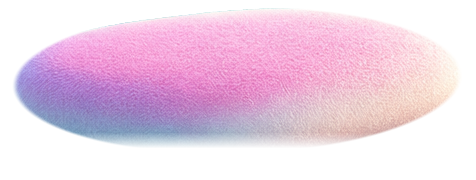
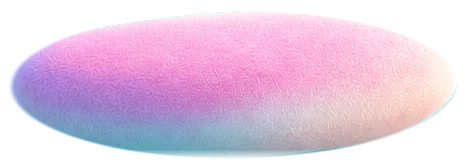
Mud spring: calm lake base, thicker pops, rising steam; game switcher
- Use the new calm lake image from Figma as the base; recut the island and its
  reflection so they drift together, and paint them out of the background.
- Mud bubbles: soft blurred highlight; pops collapse into a thick slow ring with
  a few heavy goo blobs that splash back down.
- Steam wisps rise all the way up to the shake counter.
- Replace the landing page with a redirect to B and add a B/A switcher in both games.
- Minimal scrollbar for the parameter panel.

diff --git a/mud_spring_demo/index.html b/mud_spring_demo/index.html
@@ -25,9 +25,12 @@
 
   /* 第 1 張：湖面（背景原圖 1024×1607 → Figma 位置 x -78，546×857） */
   .bg-lake { left: -78px; top: 0; width: 546px; height: 857px; }
-  .raft { position: absolute; left: 0; top: 0; width: 390px; height: 844px; transform-origin: 193px 553px; will-change: transform; }
+  .raft { position: absolute; left: 0; top: 0; width: 390px; height: 844px; transform-origin: 190px 551px; will-change: transform; }
   .raft img { position: absolute; }
-  .island { left: 65.96px; top: 505.5px; width: 253.8px; height: 96px; }
+  /* 浮島與倒影：從平靜湖面原圖裁切，原圖 → 畫面縮放 0.5579 */
+  .island { left: 60.1px; top: 504.9px; width: 262.2px; height: 93.2px; }
+  .island-reflection { left: 60.1px; top: 583px; width: 262.2px; height: 75.3px; }
+  .bg-calm { left: -90.5px; top: 0; width: 571.3px; height: 857px; }
   .migo-calm { left: 8px; top: 247px; width: 373px; height: 373px; }      /* 含陰影與環境光，比對設計稿定位 */
 
   /* 第 2、3 張：噴發（同一張長圖，第 3 張是鏡頭推近） */
@@ -92,23 +95,45 @@
   body:not(.dev) { padding: 0; height: 100vh; height: 100dvh; overflow: hidden; }
   body:not(.dev) .phone { flex: none; transform-origin: center center; }
 
+  /* 極簡捲軸：沒有軌道底色，只有一條可以拖的細條 */
+  .panel { scrollbar-width: thin; scrollbar-color: rgba(255,255,255,.28) transparent; }
+  .panel::-webkit-scrollbar { width: 6px; }
+  .panel::-webkit-scrollbar-track { background: transparent; }
+  .panel::-webkit-scrollbar-thumb { background: rgba(255,255,255,.28); border-radius: 3px; }
+  .panel::-webkit-scrollbar-thumb:hover { background: rgba(255,255,255,.45); }
+  .panel::-webkit-scrollbar-button { display: none; height: 0; }
   /* 參數面板開關按鈕 */
   .panel-toggle { position: fixed; top: 12px; right: 12px; z-index: 50; flex: none; width: auto;
     padding: 8px 14px; border-radius: 999px; border: 0; font-size: 13px; font-weight: 700; cursor: pointer;
     background: rgba(20, 20, 40, .55); color: #fff; backdrop-filter: blur(6px); -webkit-backdrop-filter: blur(6px); }
   .panel-toggle:hover { background: rgba(20, 20, 40, .75); }
   .header-settings-hit { position: absolute; left: 286px; top: 64px; width: 44px; height: 40px; z-index: 8; cursor: pointer; }
+
+  /* 遊戲切換鈕 */
+  .game-switch { position: fixed; top: 12px; left: 12px; z-index: 50; display: flex; padding: 3px; gap: 2px;
+    border-radius: 999px; background: rgba(20, 20, 40, .55); backdrop-filter: blur(6px); -webkit-backdrop-filter: blur(6px);
+    font: 700 13px/1 system-ui, "Noto Sans TC", sans-serif; }
+  .game-switch a { padding: 7px 12px; border-radius: 999px; color: rgba(255,255,255,.75); text-decoration: none; white-space: nowrap; }
+  .game-switch a:hover { color: #fff; }
+  .game-switch a.on { background: rgba(255,255,255,.92); color: #1d1a3a; }
 </style>
 </head>
 <body>
+
+
+<nav class="game-switch" aria-label="切換遊戲">
+  <a href="../migo_float_test/">B 綿綿洞窟</a>
+  <a href="../mud_spring_demo/" class="on" aria-current="page">A 噗噗泉</a>
+</nav>
 
 <div class="phone" id="phone">
   <div class="stage" id="stage">
     <!-- 第 1 張：湖面 -->
     <div class="scene" id="lakeScene">
-      <img class="bg-lake" src="assets/bg_lake_noisland.png" alt="">
+      <img class="bg-calm" src="assets/bg_lake_calm.png" alt="">
       <canvas id="lakeBack"></canvas>
       <div class="raft" id="raft">
+        <img class="island-reflection" src="assets/island_reflection.png" alt="">
         <img class="island" src="assets/island.png" alt="">
         <img class="migo-calm" id="migoCalm" src="assets/migo_calm.png" alt="Migo">
       </div>
@@ -169,7 +194,7 @@ const P = {
   driftSec:   { g: 'shake', v: 6,   min: 2,   max: 14,  step: 0.5,  label: '浮島左右飄一趟 (秒，泥漿黏稠所以慢)' },
   bobAmp:     { g: 'shake', v: 3,   min: 0,   max: 12,  step: 0.5,  label: '浮島上下起伏 (px)' },
   rockKick:   { g: 'shake', v: 9,   min: 0,   max: 30,  step: 1,    label: '每搖一下浮島被推的力道' },
-  steam:      { g: 'shake', v: 4,   min: 0,   max: 20,  step: 1,    label: '冒煙量（越搖越多）' },
+  steam:      { g: 'shake', v: 9,   min: 0,   max: 20,  step: 1,    label: '冒煙量（越搖越多）' },
   bubbleRate: { g: 'shake', v: 6,   min: 0,   max: 30,  step: 1,    label: '湖面冒泡頻率（越搖越多）' },
   burst:      { g: 'shake', v: 5,   min: 0,   max: 20,  step: 1,    label: '每搖一下冒出的泥漿泡' },
   screenShake:{ g: 'shake', v: 6,   min: 0,   max: 16,  step: 1,    label: '畫面震動 (px)' },
@@ -196,7 +221,10 @@ for (const [k, o] of Object.entries(P)) {
 
 // ================= 常數 / 狀態 =================
 const W = 390, H = 844, TAU = Math.PI * 2;
-const ISLAND = { x: 193, y: 553 };
+const ISLAND = { x: 190, y: 551 };              // 新的平靜湖面圖裡浮島的中心（畫面座標）
+const WATERLINE = 590;                          // 浮島吃水線（畫面座標）
+// 平靜湖面圖 1024×1536：Figma 以填滿方式放在 (-78,0) 546×857 → 實際 x -90.5、寬 571.3
+const CALM = { x: -90.5, y: 0, w: 571.3, h: 857 };
 const CAM2 = { x: -77, y: 0, w: 574 };       // 第 2 張背景位置
 const CAM3 = { x: -173, y: 72, w: 914 };     // 第 3 張背景位置（同一張圖放大）
 const MORPH = { dx: 104 - 132, dy: 261.5 - 171.5, s: 2 };   // 暈眼 Migo → 打叉眼 Migo 的位移與放大
@@ -226,9 +254,9 @@ const depth = y => clamp01((y - 470) / 330) * 0.85 + 0.3;
 // 泥漿湖面的範圍：從背景圖算出來（青綠色 = 泥漿；粉紫色地面、遠方山丘都不算）
 let lakeMask = null;
 function buildLakeMask() {
-  const img = document.querySelector('#lakeScene .bg-lake');
+  const img = document.querySelector('#lakeScene .bg-calm');
   const c = document.createElement('canvas'); c.width = W; c.height = H;
-  const x = c.getContext('2d'); x.drawImage(img, -78, 0, 546, 857);
+  const x = c.getContext('2d'); x.drawImage(img, CALM.x, CALM.y, CALM.w, CALM.h);
   const d = x.getImageData(0, 0, W, H).data;
   lakeMask = new Uint8Array(W * H);
   for (let y = 490; y < H; y++) for (let i = 0; i < W; i++) {
@@ -257,17 +285,22 @@ function spawnSteam() {
   for (let i = 0; i < 10; i++) {
     const x = 50 + Math.random() * 290, y = 520 + Math.random() * 190;
     if (!inLake(x, y)) continue;
-    const s = depth(y), life = 3 + Math.random() * 2;
-    steams.push({ x, y, r: (14 + Math.random() * 16) * s, vx: (Math.random() - 0.5) * 8, life, max: life,
-      front: y > ISLAND.y + 40 && Math.random() < 0.6, ph: Math.random() * TAU });
+    // 一路往上竄到數字那一帶（約 y 250）才散掉：從湖面升約 300px，壽命 5～6.5 秒
+    const s = depth(y), life = 5 + Math.random() * 1.5;
+    const rise = (y - (230 + Math.random() * 60)) / life;
+    steams.push({ x, y, r: (20 + Math.random() * 22) * s, vx: (Math.random() - 0.5) * 8, life, max: life,
+      front: y > ISLAND.y + 40 && Math.random() < 0.6, ph: Math.random() * TAU, rise });
     return;
   }
 }
 function popMud(m) {
-  rings.push({ x: m.x, y: m.y, r: m.rMax, s: m.s, life: 0.6 });
-  for (let i = 0; i < 5; i++) {
-    const a = -Math.PI / 2 + (Math.random() - 0.5) * 1.8, sp = (90 + Math.random() * 120) * m.s;
-    drops.push({ x: m.x, y: m.y - m.rMax * 0.6, vx: Math.cos(a) * sp, vy: Math.sin(a) * sp, r: (1.5 + Math.random() * 2.5) * m.s, g: 520, floor: m.y, life: 1.2 });
+  // 濃稠的破法：一圈粗粗的泥漿環慢慢擴散，濺起少量、慢、不透明的泥漿團
+  rings.push({ x: m.x, y: m.y, r: m.rMax, s: m.s, life: 1.0, max: 1.0, thick: true });
+  const n = m.rMax > 14 ? 3 + (Math.random() * 2 | 0) : 1 + (Math.random() * 2 | 0);
+  for (let i = 0; i < n; i++) {
+    const a = -Math.PI / 2 + (Math.random() - 0.5) * 1.4, sp = (45 + Math.random() * 55) * Math.sqrt(m.s) * (0.6 + m.rMax / 40);
+    drops.push({ x: m.x + (Math.random() - 0.5) * m.rMax * 0.6, y: m.y - m.rMax * 0.5, vx: Math.cos(a) * sp, vy: Math.sin(a) * sp,
+      r: (2.2 + Math.random() * 2.6) * m.s * (0.7 + m.rMax / 50), g: 300, floor: m.y + 2, life: 2, goo: true, s: m.s });
   }
   if (Math.random() < 0.5) steams.push({ x: m.x, y: m.y - 8, r: 14 * m.s, vx: 0, life: 2.2, max: 2.2, front: m.y > ISLAND.y + 40, ph: Math.random() * TAU });
 }
@@ -279,39 +312,58 @@ function glow(ctx, x, y, r, a) {
   ctx.fillStyle = g; ctx.beginPath(); ctx.arc(x, y, r, 0, TAU); ctx.fill();
 }
 function drawMud(ctx, m) {
-  // 從湖面鼓起的半球泥漿泡（薄荷色、半透明、帶高光）
-  const r = m.r, h = r * 0.85;
+  // 從湖面鼓起的半球泥漿泡（薄荷色）；破掉時先塌陷攤平再融回泥漿
+  const k = m.popped ? clamp01(m.pt / 0.45) : 0;
+  const r = m.r * (1 + 0.35 * k), h = m.r * 0.85 * (1 - 0.85 * k);
+  const A = 1 - k * k;
   ctx.save();
+  ctx.globalAlpha = A;
   const g = ctx.createLinearGradient(m.x, m.y - h, m.x, m.y);
   g.addColorStop(0, 'rgba(200,252,248,0.95)');
-  g.addColorStop(0.6, 'rgba(120,225,225,0.9)');
-  g.addColorStop(1, 'rgba(90,200,210,0.75)');
+  g.addColorStop(0.6, 'rgba(130,228,226,0.92)');
+  g.addColorStop(1, 'rgba(100,206,214,0.8)');
   ctx.fillStyle = g;
   ctx.beginPath();
-  ctx.ellipse(m.x, m.y, r, h, 0, Math.PI, TAU);
+  ctx.ellipse(m.x, m.y, r, Math.max(h, 0.5), 0, Math.PI, TAU);
   ctx.ellipse(m.x, m.y, r, r * 0.25, 0, 0, Math.PI);
   ctx.fill();
-  ctx.fillStyle = 'rgba(255,255,255,0.75)';
-  ctx.beginPath(); ctx.ellipse(m.x - r * 0.35, m.y - h * 0.55, r * 0.22, h * 0.14, -0.5, 0, TAU); ctx.fill();
+  // 柔和的高光（模糊光暈，不要銳利白點）
+  if (h > 2) {
+    const hx = m.x - r * 0.32, hy = m.y - h * 0.58, hr = r * 0.42;
+    const hg = ctx.createRadialGradient(hx, hy, 0, hx, hy, hr);
+    hg.addColorStop(0, 'rgba(255,255,255,0.55)');
+    hg.addColorStop(0.45, 'rgba(255,255,255,0.22)');
+    hg.addColorStop(1, 'rgba(255,255,255,0)');
+    ctx.fillStyle = hg;
+    ctx.beginPath(); ctx.ellipse(hx, hy, hr, hr * 0.7 * (h / (m.r * 0.85 + 0.01)), -0.4, 0, TAU); ctx.fill();
+  }
   ctx.restore();
 }
+function drawGoo(ctx, d) {
+  // 濃稠的泥漿團：不透明薄荷色 + 柔和高光
+  const g = ctx.createRadialGradient(d.x - d.r * 0.35, d.y - d.r * 0.35, 0, d.x, d.y, d.r);
+  g.addColorStop(0, 'rgba(225,255,252,0.98)');
+  g.addColorStop(0.55, 'rgba(150,234,230,0.96)');
+  g.addColorStop(1, 'rgba(110,212,218,0.9)');
+  ctx.fillStyle = g;
+  ctx.beginPath(); ctx.ellipse(d.x, d.y, d.r * 0.92, d.r * 1.08, 0, 0, TAU); ctx.fill();
+}
 function drawSteam(ctx, s) {
+  // 一縷往上飄的熱氣：底部窄、往上變寬變淡
   const k = 1 - s.life / s.max;                       // 0 → 1
-  const a = 0.26 * Math.sin(Math.PI * k);              // 淡入淡出
-  const rr = s.r * (1 + k * 2.2);
+  const a = 0.4 * Math.sin(Math.PI * Math.min(1, k * 1.15)) * (1 - k * 0.3);
+  const rr = s.r * (0.7 + k * 3.2);
   const g = ctx.createRadialGradient(s.x, s.y, 0, s.x, s.y, rr);
   g.addColorStop(0, `rgba(255,255,255,${a})`);
-  g.addColorStop(0.55, `rgba(245,255,255,${a * 0.5})`);
+  g.addColorStop(0.5, `rgba(248,255,255,${a * 0.55})`);
   g.addColorStop(1, 'rgba(255,255,255,0)');
-  ctx.fillStyle = g; ctx.beginPath(); ctx.ellipse(s.x, s.y, rr, rr * 1.15, 0, 0, TAU); ctx.fill();
+  ctx.fillStyle = g; ctx.beginPath(); ctx.ellipse(s.x, s.y, rr * 0.8, rr * 1.5, Math.sin(S.t * 0.6 + s.ph) * 0.25, 0, TAU); ctx.fill();
 }
 function drawLake() {
   back.clearRect(0, 0, W, H); front.clearRect(0, 0, W, H);
   // 浮島四周的漣漪：跟著浮島走，也順便蓋住底下補過的地方
   const ix = ISLAND.x + S.rx, iy = ISLAND.y + 30 + S.ry;
   back.save();
-  back.fillStyle = 'rgba(150,232,230,0.55)';
-  back.beginPath(); back.ellipse(ix, iy - 4, 150, 34, 0, 0, TAU); back.fill();
   for (let i = 0; i < 3; i++) {
     const k = ((S.t * 0.22 + i / 3) % 1);              // 慢慢往外擴
     const rx = 128 + k * 70;
@@ -322,14 +374,23 @@ function drawLake() {
   back.restore();
   for (const s of steams) if (!s.front) drawSteam(back, s);
   for (const r of rings) {
-    const k = r.life / 0.6, rr = r.r * (1 + (1 - k) * 2.2);
-    back.strokeStyle = `rgba(235,255,255,${0.7 * k})`; back.lineWidth = 1.5 * r.s;
-    back.beginPath(); back.ellipse(r.x, r.y, rr, rr * 0.28, 0, 0, TAU); back.stroke();
+    const k = r.life / (r.max || 0.6);
+    if (r.thick) {                                       // 濃稠的泥漿環：粗、慢、帶亮邊
+      const rr = r.r * (1 + (1 - k) * 1.3);
+      back.strokeStyle = `rgba(150,232,228,${0.85 * k})`; back.lineWidth = (2 + 5 * k) * r.s;
+      back.beginPath(); back.ellipse(r.x, r.y, rr, rr * 0.28, 0, 0, TAU); back.stroke();
+      back.strokeStyle = `rgba(240,255,255,${0.45 * k})`; back.lineWidth = 1;
+      back.beginPath(); back.ellipse(r.x, r.y - 1.5 * r.s, rr, rr * 0.28, 0, Math.PI, TAU); back.stroke();
+    } else {
+      const rr = r.r * (1 + (1 - k) * 2.2);
+      back.strokeStyle = `rgba(235,255,255,${0.7 * k})`; back.lineWidth = 1.5 * r.s;
+      back.beginPath(); back.ellipse(r.x, r.y, rr, rr * 0.28, 0, 0, TAU); back.stroke();
+    }
   }
   for (const m of muds) drawMud(m.y > ISLAND.y + 30 ? front : back, m);
 
   // 浮島前緣的泥漿：蓋住吃水線，讓浮島看起來一半沉在泥漿裡
-  const wl = 580 + S.ry;
+  const wl = WATERLINE + S.ry;
   front.save();
   const lg = front.createLinearGradient(0, wl - 7, 0, wl + 16);
   lg.addColorStop(0, 'rgba(150,232,230,0)');
@@ -341,7 +402,7 @@ function drawLake() {
   front.beginPath(); front.ellipse(ix, wl - 1, 128, 12, 0, 0.12, Math.PI - 0.12); front.stroke();
   front.restore();
 
-  for (const d of drops) glow(front, d.x, d.y, d.r, 0.85);
+  for (const d of drops) d.goo ? drawGoo(front, d) : glow(front, d.x, d.y, d.r, 0.85);
   for (const s of steams) if (s.front) drawSteam(front, s);
 }
 
@@ -405,17 +466,20 @@ function frame(now) {
 function stepParticles(dt) {
   for (let i = muds.length - 1; i >= 0; i--) {
     const m = muds[i]; m.t += dt; m.r = m.rMax * easeOutCubic(clamp01(m.t / m.grow));
-    if (m.t > m.grow + 0.15) { popMud(m); muds.splice(i, 1); }
+    if (!m.popped && m.t > m.grow + 0.25) { m.popped = true; m.pt = 0; popMud(m); }   // 鼓到最大後多撐一下才破
+    if (m.popped && (m.pt += dt) > 0.45) muds.splice(i, 1);                            // 塌陷攤平後消失
   }
   for (let i = rings.length - 1; i >= 0; i--) if ((rings[i].life -= dt) <= 0) rings.splice(i, 1);
   for (let i = steams.length - 1; i >= 0; i--) {
     const s = steams[i];
-    s.y -= 18 * dt; s.x += (s.vx + Math.sin(S.t * 0.8 + s.ph) * 6) * dt;
+    s.y -= (s.rise || 18) * dt; s.x += (s.vx + Math.sin(S.t * 0.8 + s.ph) * 7) * dt;
     if ((s.life -= dt) <= 0) steams.splice(i, 1);
   }
   for (let i = drops.length - 1; i >= 0; i--) {
     const d = drops[i]; d.vy += d.g * dt; d.x += d.vx * dt; d.y += d.vy * dt; d.life -= dt;
-    if (d.life <= 0 || (d.floor && d.vy > 0 && d.y > d.floor) || d.y > H + 30) drops.splice(i, 1);
+    const landed = d.floor && d.vy > 0 && d.y > d.floor;
+    if (landed && d.goo) rings.push({ x: d.x, y: d.floor, r: d.r * 1.6, s: d.s || 1, life: 0.7, max: 0.7, thick: true });  // 泥漿團落回去
+    if (d.life <= 0 || landed || d.y > H + 30) drops.splice(i, 1);
   }
 }
 
@@ -551,7 +615,7 @@ document.getElementById('motion').onclick = async e => {
 };
 
 // 背景圖載入後算出泥漿湖面的範圍
-const lakeImg = document.querySelector('#lakeScene .bg-lake');
+const lakeImg = document.querySelector('#lakeScene .bg-calm');
 if (lakeImg.complete && lakeImg.naturalWidth) buildLakeMask(); else lakeImg.addEventListener('load', buildLakeMask);
 
 restart();

diff --git a/index.html b/index.html
@@ -4,48 +4,11 @@
 <meta charset="utf-8">
 <meta name="viewport" content="width=device-width, initial-scale=1">
 <title>Migo 小遊戲 DEMO</title>
-<link rel="preconnect" href="https://fonts.googleapis.com">
-<link href="https://fonts.googleapis.com/css2?family=Inter:wght@700;900&display=swap" rel="stylesheet">
-<style>
-  :root { --bg: #15132e; --card: #221f48; --text: #f1efff; --muted: #a9a4d6; }
-  * { box-sizing: border-box; }
-  body { margin: 0; min-height: 100vh; background: var(--bg); color: var(--text);
-    font-family: Inter, system-ui, "Noto Sans TC", sans-serif; padding: 32px 16px 48px; }
-  main { max-width: 820px; margin: 0 auto; }
-  h1 { font-size: 28px; font-weight: 900; margin: 0 0 6px; }
-  .sub { color: var(--muted); margin: 0 0 28px; font-size: 15px; }
-  .grid { display: grid; grid-template-columns: repeat(auto-fit, minmax(260px, 1fr)); gap: 20px; }
-  a.card { display: block; background: var(--card); border-radius: 20px; overflow: hidden; color: inherit; text-decoration: none;
-    transition: transform .15s; }
-  a.card:hover { transform: translateY(-3px); }
-  .thumb { aspect-ratio: 390 / 520; background-size: cover; background-position: center top; }
-  .info { padding: 16px 18px 18px; }
-  .info h2 { font-size: 18px; margin: 0 0 6px; }
-  .info p { margin: 0; color: var(--muted); font-size: 14px; line-height: 1.5; }
-  .how { margin-top: 28px; color: var(--muted); font-size: 14px; line-height: 1.7; }
-</style>
+<!-- 沒有首頁：直接進 B（綿綿洞窟）；遊戲裡左上角可以切換 -->
+<meta http-equiv="refresh" content="0; url=migo_float_test/">
+<script>location.replace('migo_float_test/' + location.search);</script>
 </head>
-<body>
-<main>
-  <h1>Migo 小遊戲 DEMO</h1>
-  <p class="sub">搖晃 VIVEE，幫 Migo 一把！手機打開體驗最好。</p>
-  <div class="grid">
-    <a class="card" href="migo_float_test/">
-      <div class="thumb" style="background-image:url(migo_float_test/assets/bg_noisland.png)"></div>
-      <div class="info">
-        <h2>綿綿洞窟的神秘泉水</h2>
-        <p>每搖一次水位就上漲，把浮島和 Migo 托向洞口，搖到密碼數字時泉水衝出洞口！</p>
-      </div>
-    </a>
-    <a class="card" href="mud_spring_demo/">
-      <div class="thumb" style="background-image:url(mud_spring_demo/assets/bg_lake.png)"></div>
-      <div class="info">
-        <h2>棉石泥漿島的噗噗泉</h2>
-        <p>越搖泥漿越滾、浮島被晃得東倒西歪，搖到密碼數字時噗噗泉衝天噴發！</p>
-      </div>
-    </a>
-  </div>
-  <p class="how">玩法：點畫面或按空白鍵＝搖一下。手機上可以在網址後面加 <code>?dev</code> 打開參數面板。</p>
-</main>
+<body style="background:#14122a;color:#fff;font-family:system-ui,sans-serif">
+<p><a href="migo_float_test/" style="color:#b9a8ff">前往遊戲</a></p>
 </body>
 </html>

diff --git a/migo_float_test/index.html b/migo_float_test/index.html
@@ -110,15 +110,36 @@
   body:not(.dev) { padding: 0; height: 100vh; height: 100dvh; overflow: hidden; }
   body:not(.dev) .phone { flex: none; transform-origin: center center; }
 
+  /* 極簡捲軸：沒有軌道底色，只有一條可以拖的細條 */
+  .panel { scrollbar-width: thin; scrollbar-color: rgba(255,255,255,.28) transparent; }
+  .panel::-webkit-scrollbar { width: 6px; }
+  .panel::-webkit-scrollbar-track { background: transparent; }
+  .panel::-webkit-scrollbar-thumb { background: rgba(255,255,255,.28); border-radius: 3px; }
+  .panel::-webkit-scrollbar-thumb:hover { background: rgba(255,255,255,.45); }
+  .panel::-webkit-scrollbar-button { display: none; height: 0; }
   /* 參數面板開關按鈕 */
   .panel-toggle { position: fixed; top: 12px; right: 12px; z-index: 50; flex: none; width: auto;
     padding: 8px 14px; border-radius: 999px; border: 0; font-size: 13px; font-weight: 700; cursor: pointer;
     background: rgba(20, 20, 40, .55); color: #fff; backdrop-filter: blur(6px); -webkit-backdrop-filter: blur(6px); }
   .panel-toggle:hover { background: rgba(20, 20, 40, .75); }
   .header-settings-hit { position: absolute; left: 286px; top: 64px; width: 44px; height: 40px; z-index: 8; cursor: pointer; }
+
+  /* 遊戲切換鈕 */
+  .game-switch { position: fixed; top: 12px; left: 12px; z-index: 50; display: flex; padding: 3px; gap: 2px;
+    border-radius: 999px; background: rgba(20, 20, 40, .55); backdrop-filter: blur(6px); -webkit-backdrop-filter: blur(6px);
+    font: 700 13px/1 system-ui, "Noto Sans TC", sans-serif; }
+  .game-switch a { padding: 7px 12px; border-radius: 999px; color: rgba(255,255,255,.75); text-decoration: none; white-space: nowrap; }
+  .game-switch a:hover { color: #fff; }
+  .game-switch a.on { background: rgba(255,255,255,.92); color: #1d1a3a; }
 </style>
 </head>
 <body>
+
+
+<nav class="game-switch" aria-label="切換遊戲">
+  <a href="../migo_float_test/" class="on" aria-current="page">B 綿綿洞窟</a>
+  <a href="../mud_spring_demo/">A 噗噗泉</a>
+</nav>
 
 <div class="phone" id="phone">
   <div class="stage" id="stage">
